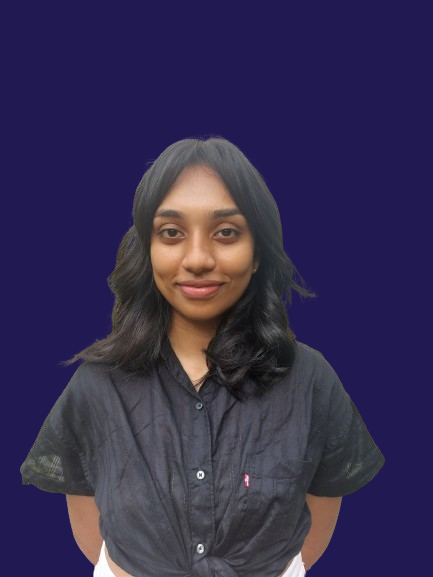
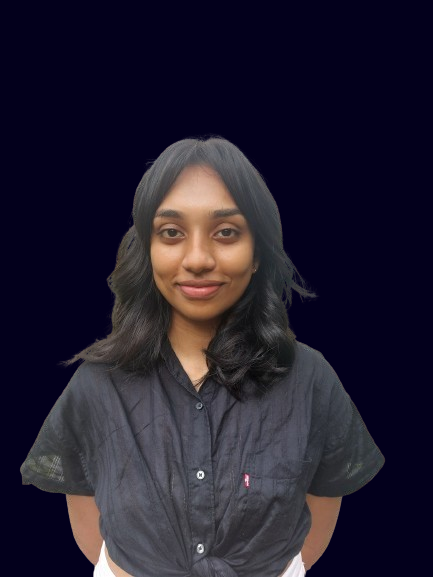
edited

diff --git a/pages/about.html b/pages/about.html
@@ -33,28 +33,34 @@
 
 
         </nav>
-        
+
     </header>
     <section class="about" id="home">
         <div class="about-content">
-            
-            
-            <p> I'm currently pursuing a degree in <span>Software Engineering</span> at the University of Westminster, affiliated with the Informatics Institute of Technology in Sri Lanka. I have a strong passion for UI/UX design and frontend development.
+            <h1>About <span>Me</span></h1>
+            <p> I'm currently pursuing a degree in <span>Software Engineering</span> at the University of Westminster,
+                affiliated with the Informatics Institute of Technology in Sri Lanka. I have a strong passion for UI/UX
+                design and frontend development.
 
-                With a foundation in teamwork, adaptability, and effective communication, I thrive in collaborative environments. I'm constantly eager to expand my skill set and embrace new technologies and methodologies as I progress on my journey.
-                
+                With a foundation in teamwork, adaptability, and effective communication, I thrive in collaborative
+                environments. I'm constantly eager to expand my skill set and embrace new technologies and methodologies
+                as I progress on my journey.
+
                 Let's create innovative solutions together!</p>
-               
+
             <div class="social-media">
-                <a href="https://www.instagram.com/chrismi.kotikawatta?igsh=ZzZjaGlzMnU1OTQ1"><i class="fa-brands fa-instagram"></i></a>
-                <a href="https://www.linkedin.com/in/chrismi-kotikawatta-b7698724b?utm_source=share&utm_campaign=share_via&utm_content=profile&utm_medium=android_app"><i class="fa-brands fa-linkedin"></i></a>
+                <a href="https://www.instagram.com/chrismi.kotikawatta?igsh=ZzZjaGlzMnU1OTQ1"><i
+                        class="fa-brands fa-instagram"></i></a>
+                <a
+                    href="https://www.linkedin.com/in/chrismi-kotikawatta-b7698724b?utm_source=share&utm_campaign=share_via&utm_content=profile&utm_medium=android_app"><i
+                        class="fa-brands fa-linkedin"></i></a>
                 <a href="https://github.com/ChrismiKotikawatta"><i class="fa-brands fa-github"></i></a>
 
             </div>
             <a href="../documents/CHRISMI KOTIKAWATTA - CV.pdf " class="btn" download>Download CV</a>
         </div>
 
-        
+
     </section>
     <section class="technologies" id="technologies">
         <h2 class="heading">Tech<span>nologies</span></h2>
@@ -104,7 +110,36 @@
         </div>
 
     </section>
-    
+
+    <section class="experience">
+        <h2>My <span>Expereinces</span></h2>
+        <h3>Data Entry Intern</h3>
+        <h4>YohoBed | SriLanka</h4>
+        <h4>May - August 2023</h4>
+        <li>Database management and data entry: Developed a strong foundation for maintaining accurate and organized
+            records.</li>
+        <li>Data analysis, manipulation, and reporting using MS Excel.</li>
+        <li>
+            Enhanced presentation and communication skills:
+        </li>
+        <li>Learned to effectively convey complex information and insights.</li> <br>
+        <p>Overall, my time at Yohobed equipped me with the ability to meticulously manage data while also improving my
+            skills in handling
+            information with precision and clarity</p>
+
+    </section>
+    <footer class="footer">
+        <div class="footer-text">
+            <p>Copyright &copy; 2024 by ChrismiKotikawatta | All Rights Reserved</p>
+        </div>
+
+        <div class="footer-iconTop">
+            <a href="#home">
+                <i class="fa-solid fa-angles-up"></i>
+            </a>
+        </div>
+    </footer>
+
 
 
 </body>

diff --git a/styles/stylesheet.css b/styles/stylesheet.css
@@ -12,10 +12,10 @@
 }
 
 :root {
-    --bg-color: #2D2727;
-    --snd-bf-color: #70a1ff;
-    --text-color: #4b7bec;
-    --main-color: #F0EB8D;
+    --bg-color: #03001C;
+    --snd-bf-color: #301E67;
+    --text-color: #5B8FB9;
+    --main-color: #B6EADA;
 }
 
 html {
@@ -317,6 +317,7 @@ span{
     display: flex;
     justify-content: center;
     align-items: center;
+    margin: 0;
 }
 
 .about-content {
@@ -341,6 +342,38 @@ span{
     line-height: 1.3;
 }
 
+.experience{
+    /* display: flex; */
+    justify-content: center;
+    align-items: center;
+    margin: 0;
+    background: var(--snd-bf-color);
+}
+
+.experience h2{
+    font-size: 5.6rem;
+    font-weight: 700;
+    line-height: 1.3;
+}
+
+.experience h3{
+    font-size: 4rem;
+    font-weight: 600;
+    color: var(--bg-color);
+    margin: 1px;
+
+}
+.experience p , .experience li{
+    font-size: 2rem;
+    font-weight: bold;
+    color: var(--main-color);
+    margin-top: 2px;
+}
+
+.experience h4{
+    font-size: 2rem;
+   
+}
 .technologies{
     background-color: var(--bg-color);
 }

diff --git a/pages/home.html b/pages/home.html
@@ -64,7 +64,7 @@
         </div>
 
         <div class="personal-img">
-            <img src="../images/profile_pic2-removebg-preview (1).png" alt="personalimage">
+            <img src="../images/profile_pic2-removebg-preview.png" alt="personalimage">
         </div>
     </section>
     
